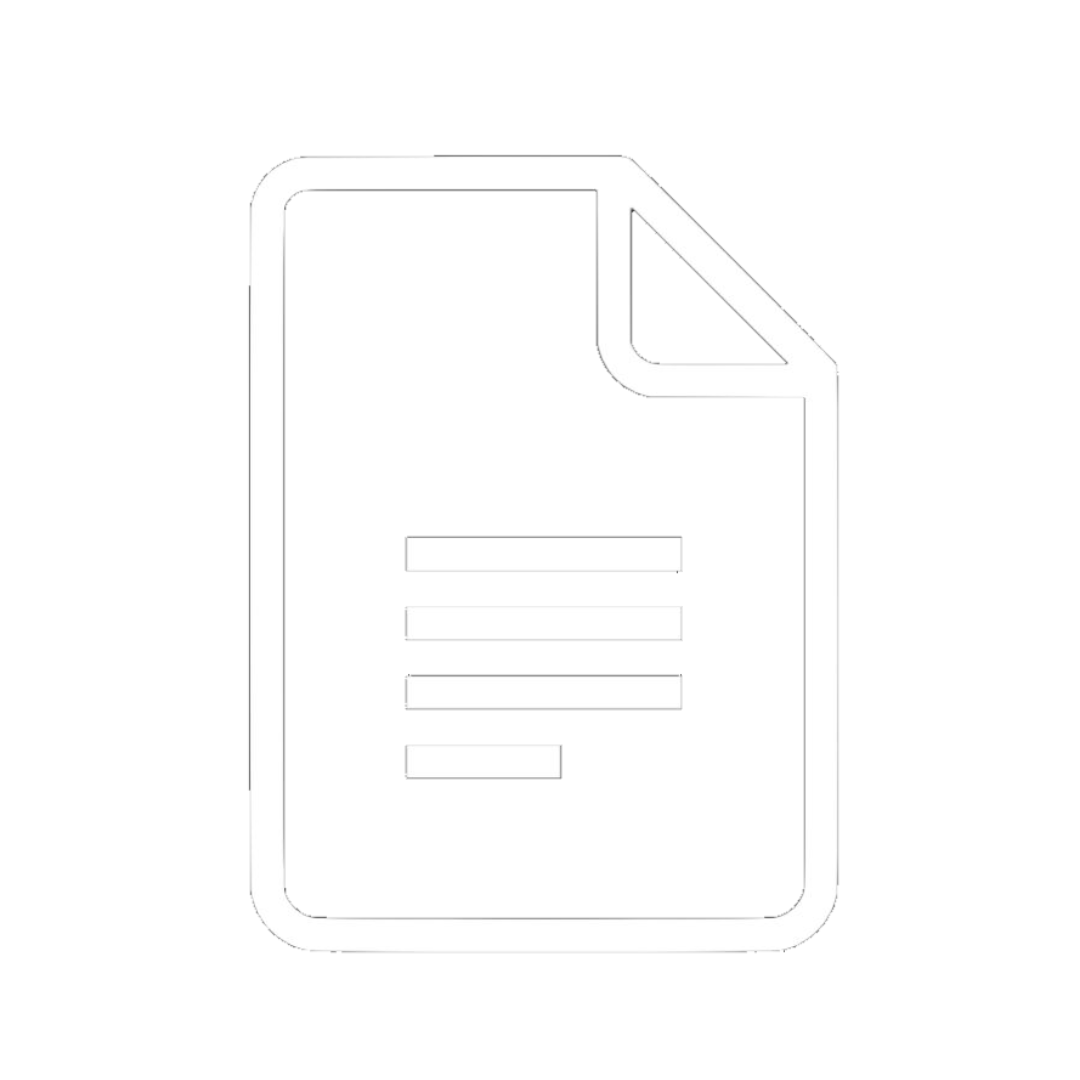
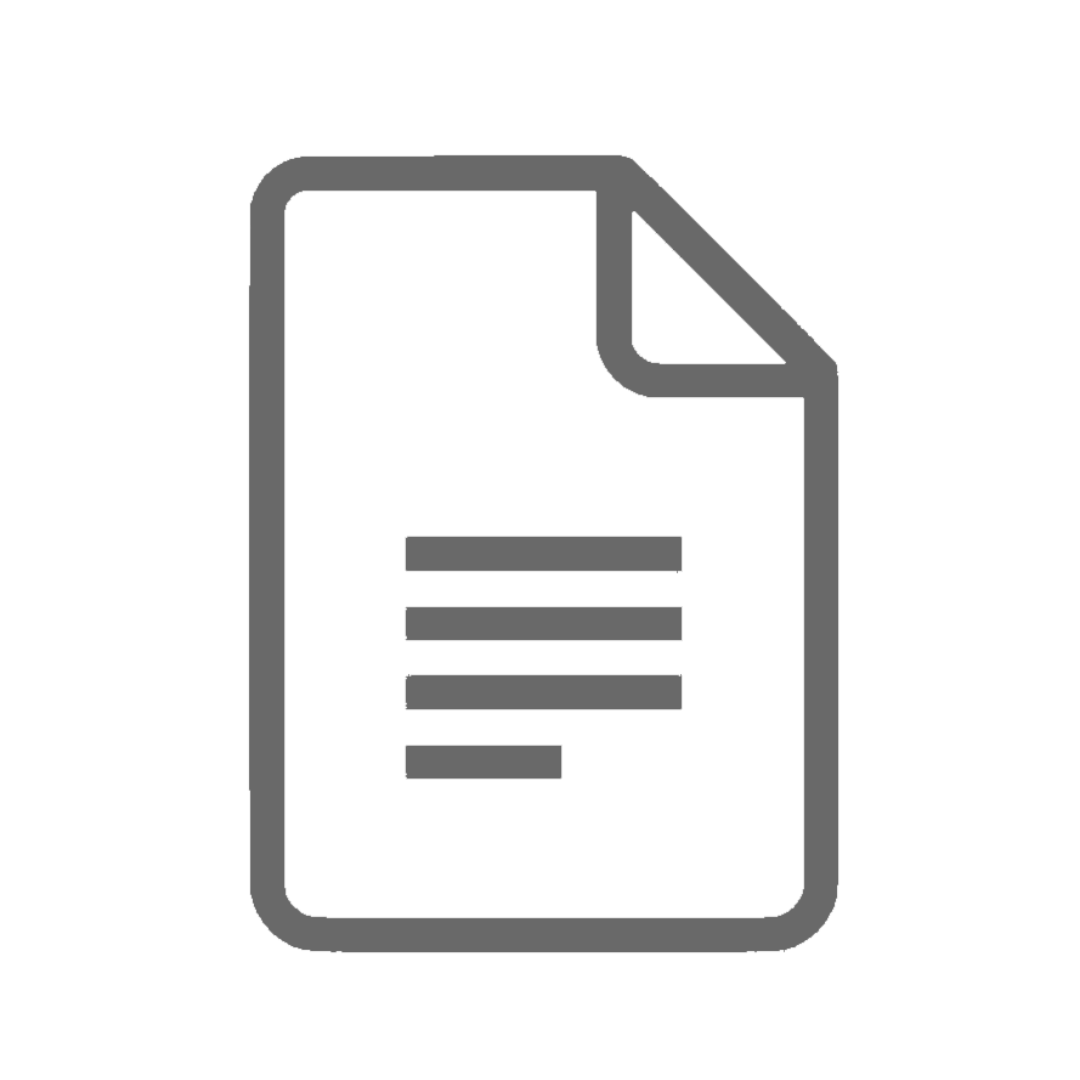
добавлены файлы document-.dto, настроен сервис документов (доступ к таблицам)

Changed region(s): [[0.2139, 0.1222, 0.7944, 0.8861], [0.3667, 0.4889, 0.6417, 0.7333]]

diff --git a/backend/src/documents/dto/document-category.dto.ts b/backend/src/documents/dto/document-category.dto.ts
@@ -1,0 +1,6 @@
+export class DocumentCategoryDto {
+  id!: number;
+  name!: string;
+  code!: string;
+  description!: string | null;
+}

diff --git a/backend/src/documents/dto/document-type.dto.ts b/backend/src/documents/dto/document-type.dto.ts
@@ -1,0 +1,6 @@
+export class DocumentTypeDto {
+  id!: number;
+  name!: string;
+  code!: string;
+  description!: string | null;
+}
